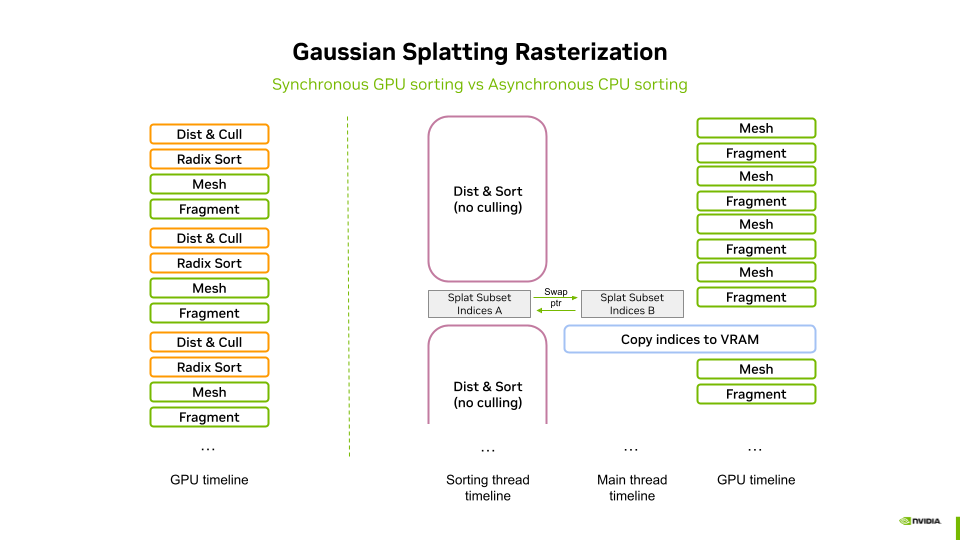
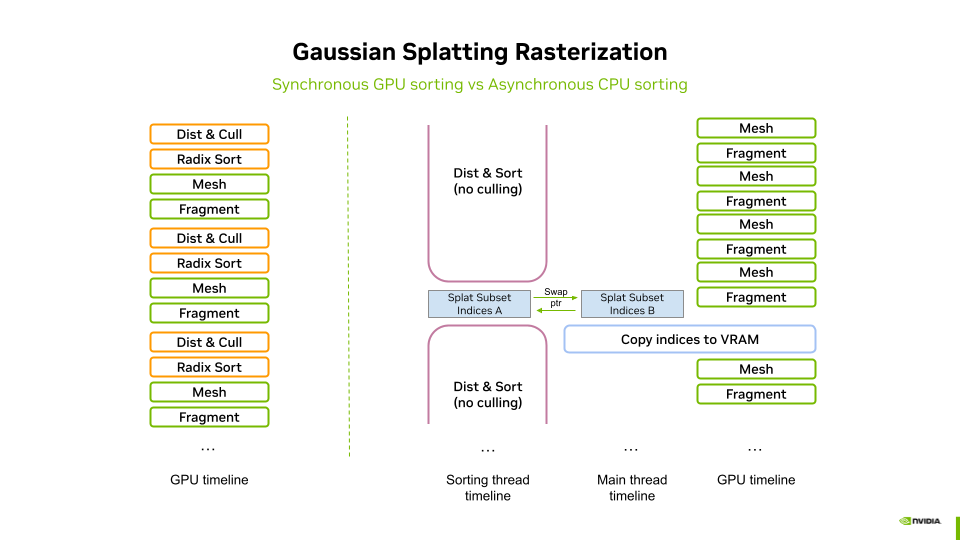
updated figures

diff --git a/README.md b/README.md
@@ -27,8 +27,8 @@ cmake --build build --config Release
 The sample application supports PLY files in the format defined by INRIA ([Citation]). The INRIA dataset can be downloaded at [URL].
 
 Supported Files
-*	The input.ply files cannot be loaded, as they represent raw point clouds generated by Structure From Motion (SfM) during model reconstruction.
-*	To visualize the final output, open PLY files located in the point_cloud subfolders, corresponding to 7,000 or 30,000 iterations.
+*	To visualize 3DGS reconstruction output, open PLY files located in the point_cloud subfolders, corresponding to 7,000 or 30,000 iterations.
+*	Attention: The input.ply files cannot be loaded, as they represent raw point clouds generated by Structure From Motion (SfM) during model reconstruction.
 
 Files can be opened using any of the following methods:
 *	**Command Line** – Provide the file path as an argument when launching the application.
@@ -37,11 +37,11 @@ Files can be opened using any of the following methods:
 
 Compatibility
 *	Jawset Postshot ([link]) output files are compatible with the INRIA format and can be opened directly.
-*	Other reconstruction software may work but has not been tested.
+*	Other reconstruction softwares may work but have not been tested.
 
 ## User interface
 
-![image showing the user interface viewing the bicycle 3DGS model](doc/user_interface.png)
+![image showing the user interface viewing the bicycle 3DGS model](doc/user_interface.jpg)
 
 ### Rendering Panel
 
@@ -79,17 +79,18 @@ This option impacts memory access patterns and performance, allowing comparisons
 
 This flexibility enables performance comparisons between buffer-based and texture-based data storage, each with trade-offs in memory access efficiency and potential optimization opportunities.
 
-
-## The pipelines
-
-![image showing gaussian splatting rasterization pipelines](doc/pipelines.png)
-
 ## Sorting methods
 
 ![image showing gaussian splatting sorting methods](doc/sorting.png)
 
+## The pipelines
 
-## Building and Running
+![image showing gaussian splatting rasterization pipelines with GPU sorting](doc/pipeline_gpu_sorting.png)
+
+![image showing gaussian splatting rasterization pipelines with CPU sorting](doc/pipeline_cpu_sorting.png)
+
+
+## Benchmarking
 
 ``` sh
 
